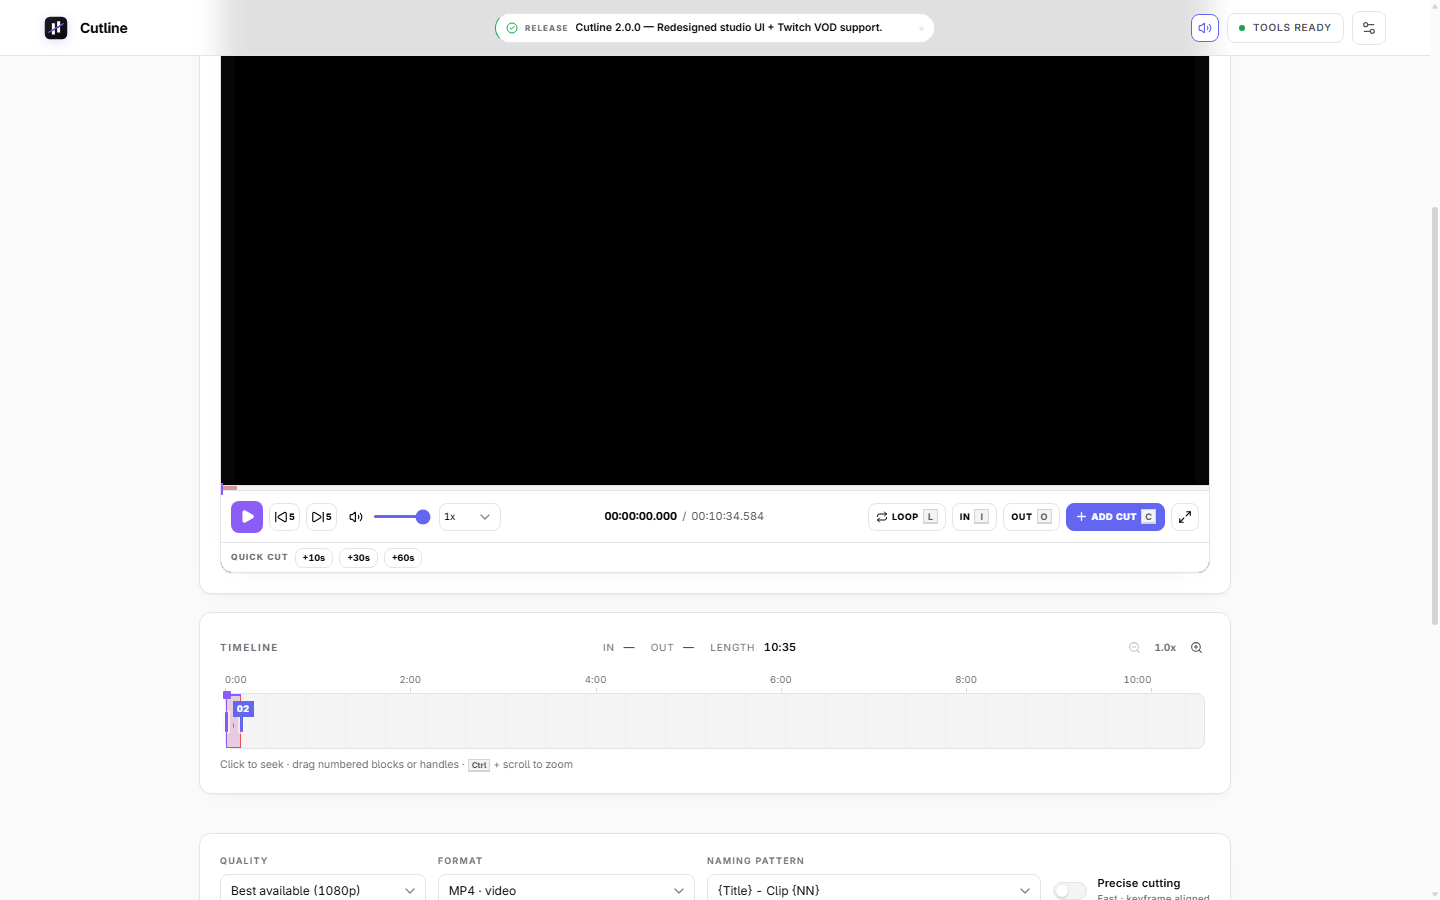
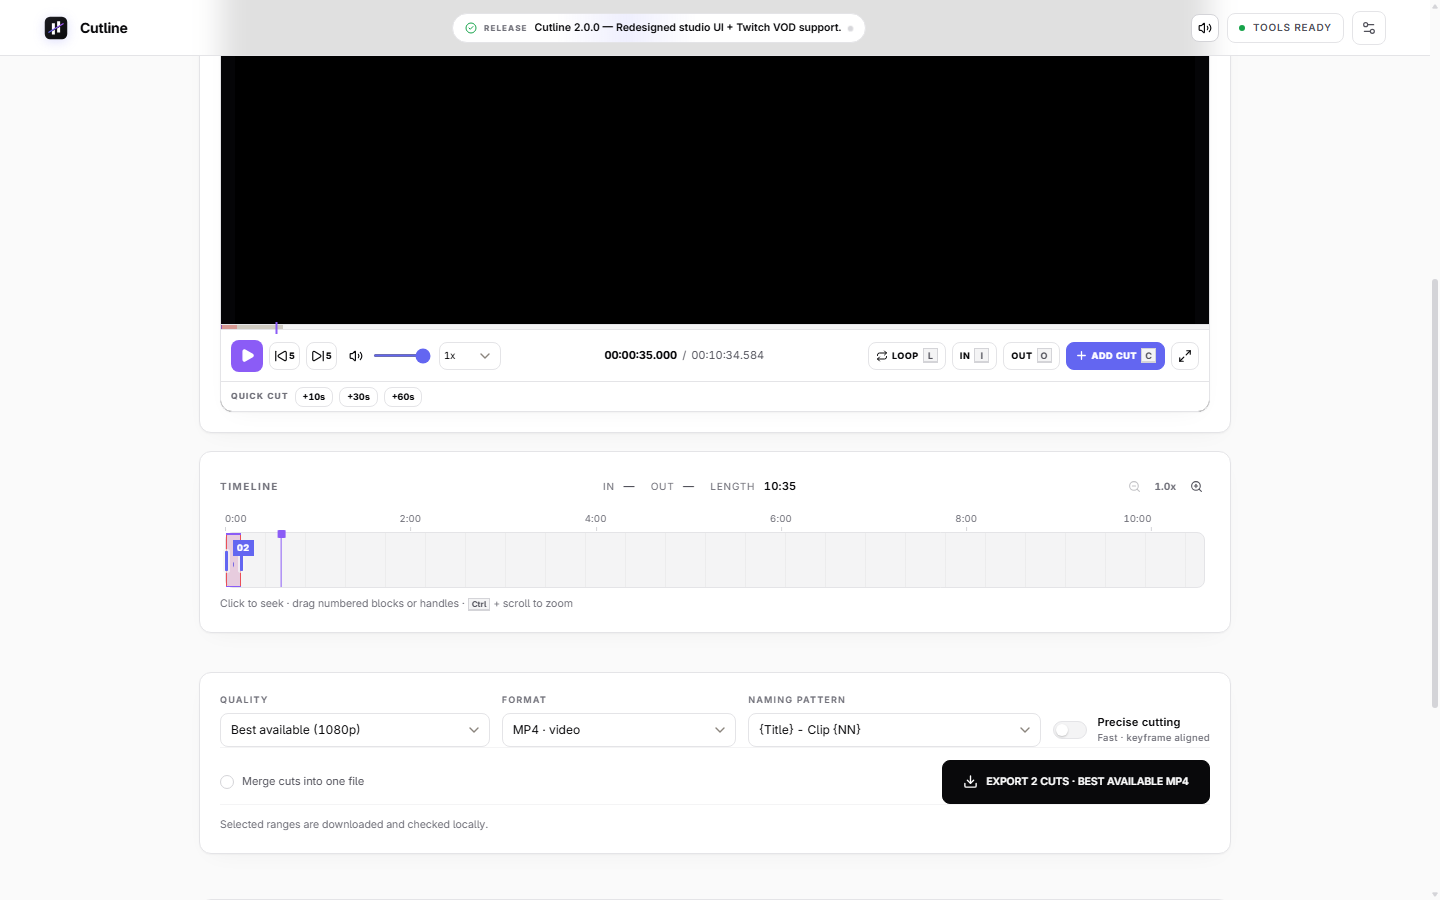
Fix broken CSS flex injection restoring 16:9 video preview, timeline, and toolbar layout

diff --git a/src/styles/app.css b/src/styles/app.css
@@ -2335,13 +2335,6 @@ select.input {
   color: var(--text-primary);
 }
 
-.dep-banner-actions {
-  display: inline-flex;
-  align-items: center;
-  gap: 8px;
-  flex: none;
-}
-
 .app-footer {
   display: flex;
   align-items: center;
@@ -2516,14 +2509,7 @@ select.input {
     justify-content: space-between;
   }
 
-  .dep-banner-actions {
-  display: inline-flex;
-  align-items: center;
-  gap: 8px;
-  flex: none;
-}
-
-.app-footer {
+  .app-footer {
     flex-wrap: wrap;
   }
 
@@ -4252,13 +4238,6 @@ html[data-theme="dark"] .deck-buffered {
 .clip-toolbar,
 .clips,
 .downloads,
-.dep-banner-actions {
-  display: inline-flex;
-  align-items: center;
-  gap: 8px;
-  flex: none;
-}
-
 .app-footer {
   animation: panelIn 0.36s cubic-bezier(0.2, 0.85, 0.25, 1) both;
   will-change: transform, opacity;
@@ -4287,13 +4266,6 @@ html[data-theme="dark"] .deck-buffered {
 
 .downloads {
   animation-delay: 230ms;
-}
-
-.dep-banner-actions {
-  display: inline-flex;
-  align-items: center;
-  gap: 8px;
-  flex: none;
 }
 
 .app-footer {
@@ -4621,14 +4593,43 @@ select,
 .clip-toolbar,
 .clips,
 .downloads {
+  display: block;
+  width: 100%;
   background: var(--surface);
   padding: 20px;
   border: 1px solid var(--border);
 }
 
+.urlbar-wrap {
+  display: block;
+  width: 100%;
+  border-bottom: 0;
+  padding-bottom: 0;
+}
+
 .player-frame {
+  display: block;
+  width: 100%;
   overflow: hidden;
   border: 1px solid var(--border);
+}
+
+.player-frame .frame {
+  position: relative;
+  width: 100%;
+  aspect-ratio: 16 / 9;
+  background: #050507;
+  overflow: hidden;
+}
+
+.toolbar-grid {
+  grid-template-columns: minmax(175px, 1.15fr) minmax(150px, 1fr) minmax(190px, 1.25fr) auto;
+  gap: 12px;
+}
+
+.toolbar-field select.input {
+  width: 100%;
+  text-overflow: ellipsis;
 }
 
 /* Minimal monochrome primary buttons */

diff --git a/README.md b/README.md
@@ -31,7 +31,7 @@ Instead of downloading an entire multi-hour VOD or video just to trim out a 30-s
 
 Grab the installer from `src-tauri/target/release/bundle/nsis/Cutline_2.0.0_x64-setup.exe` after building, or download a release.
 
[2 lines of base64/hex data omitted]
 
 You need:
 
